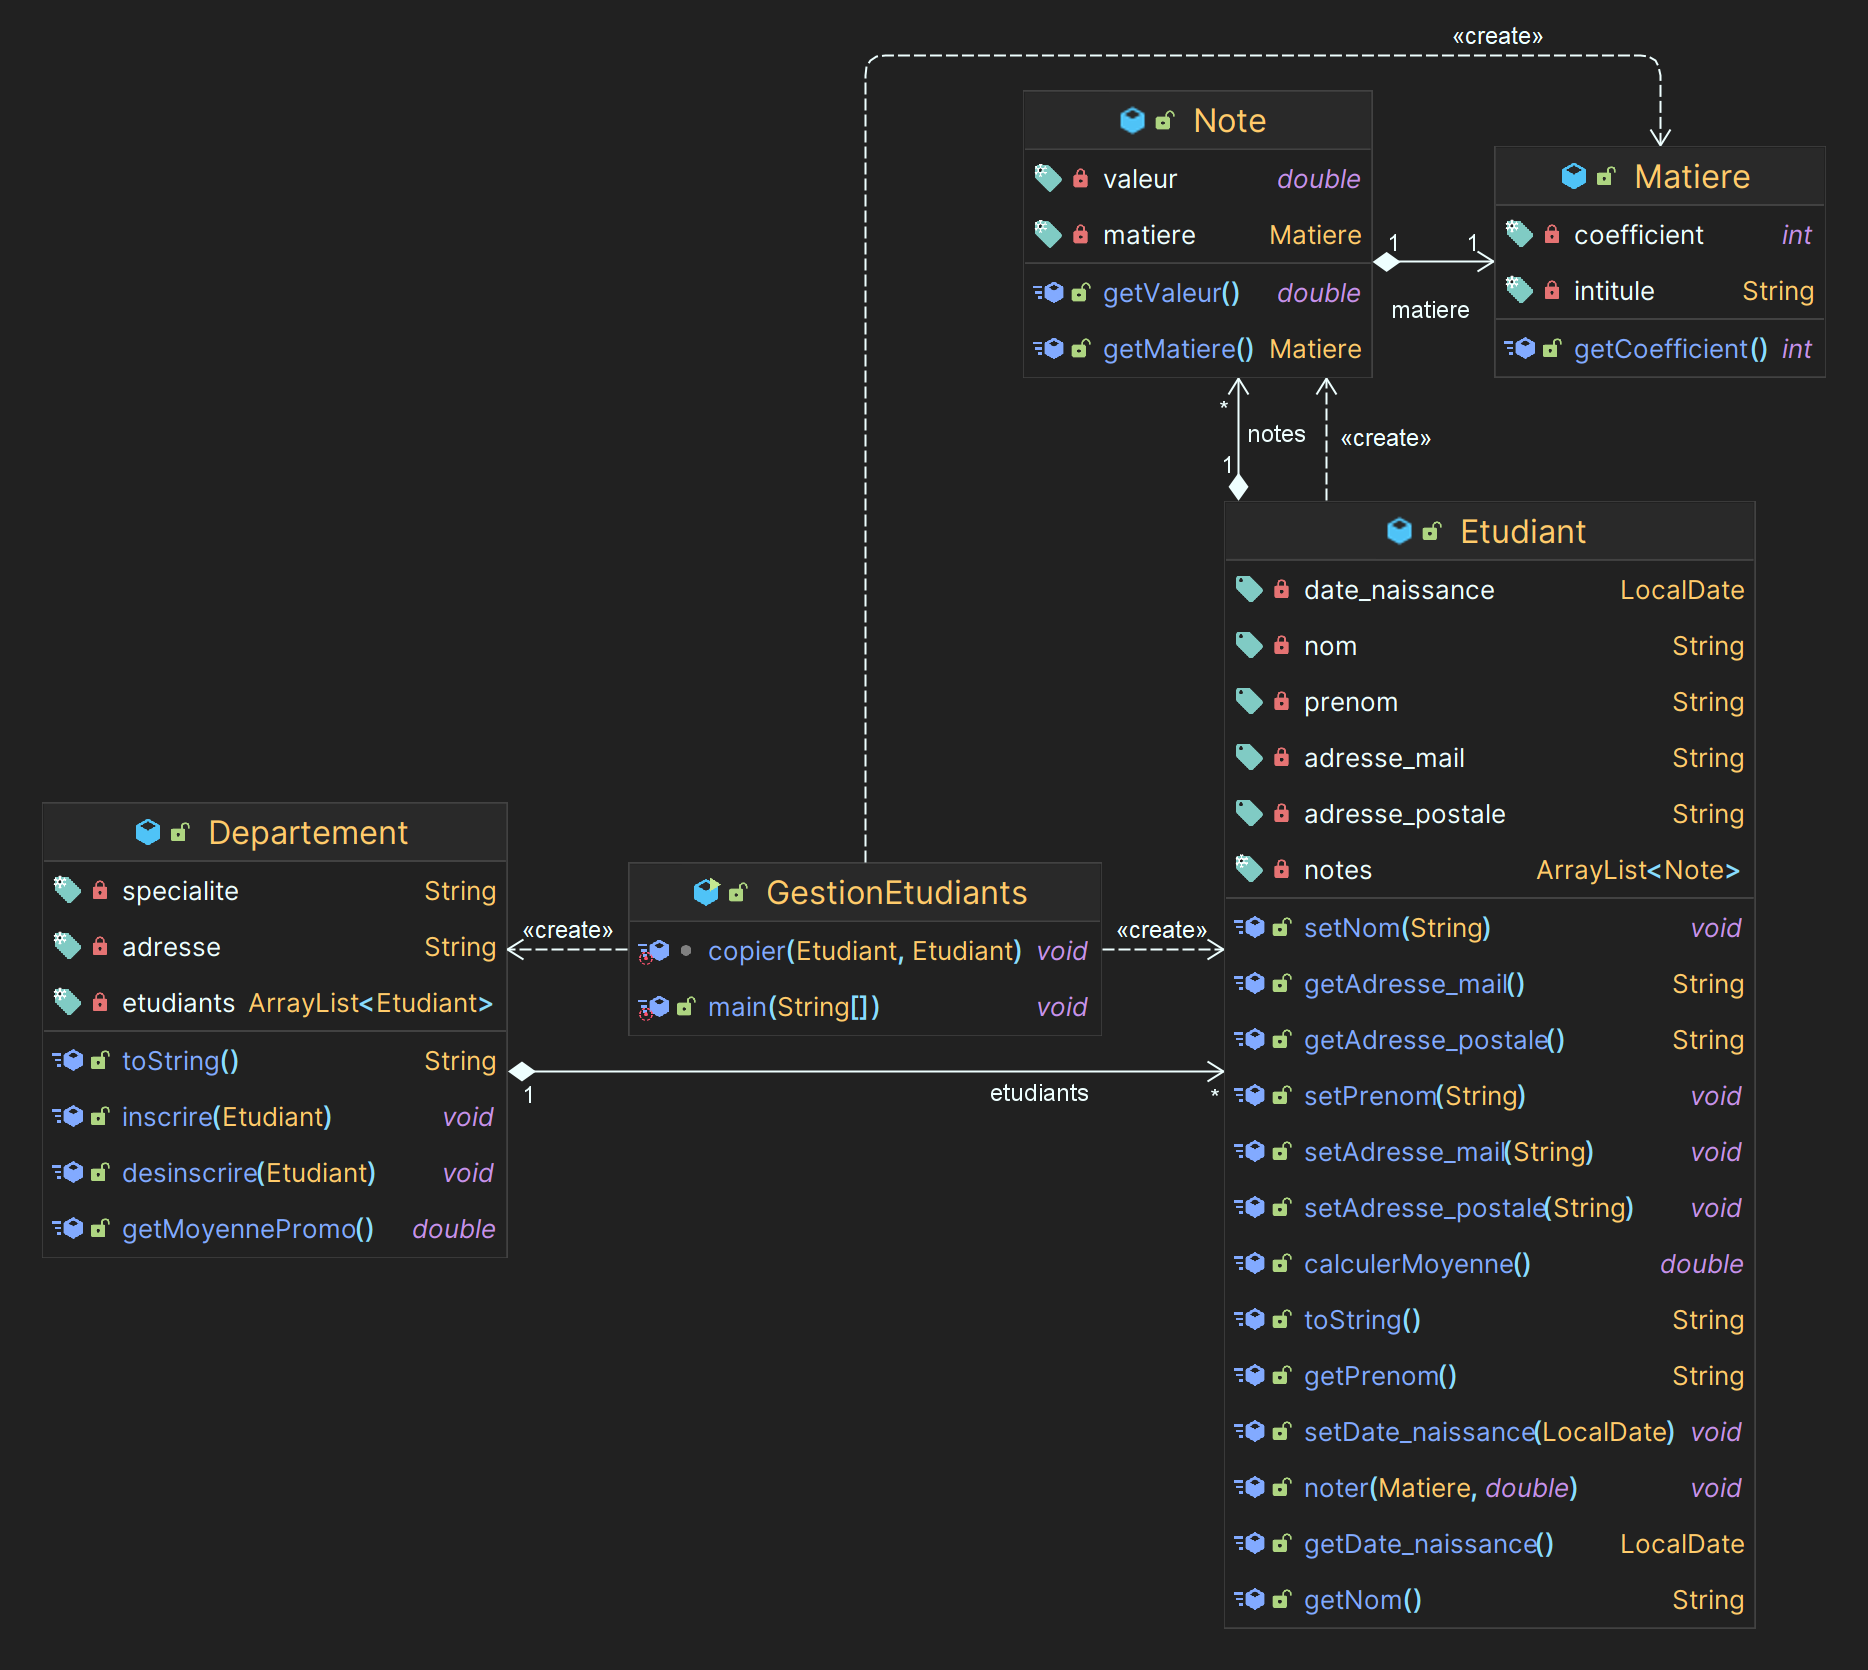
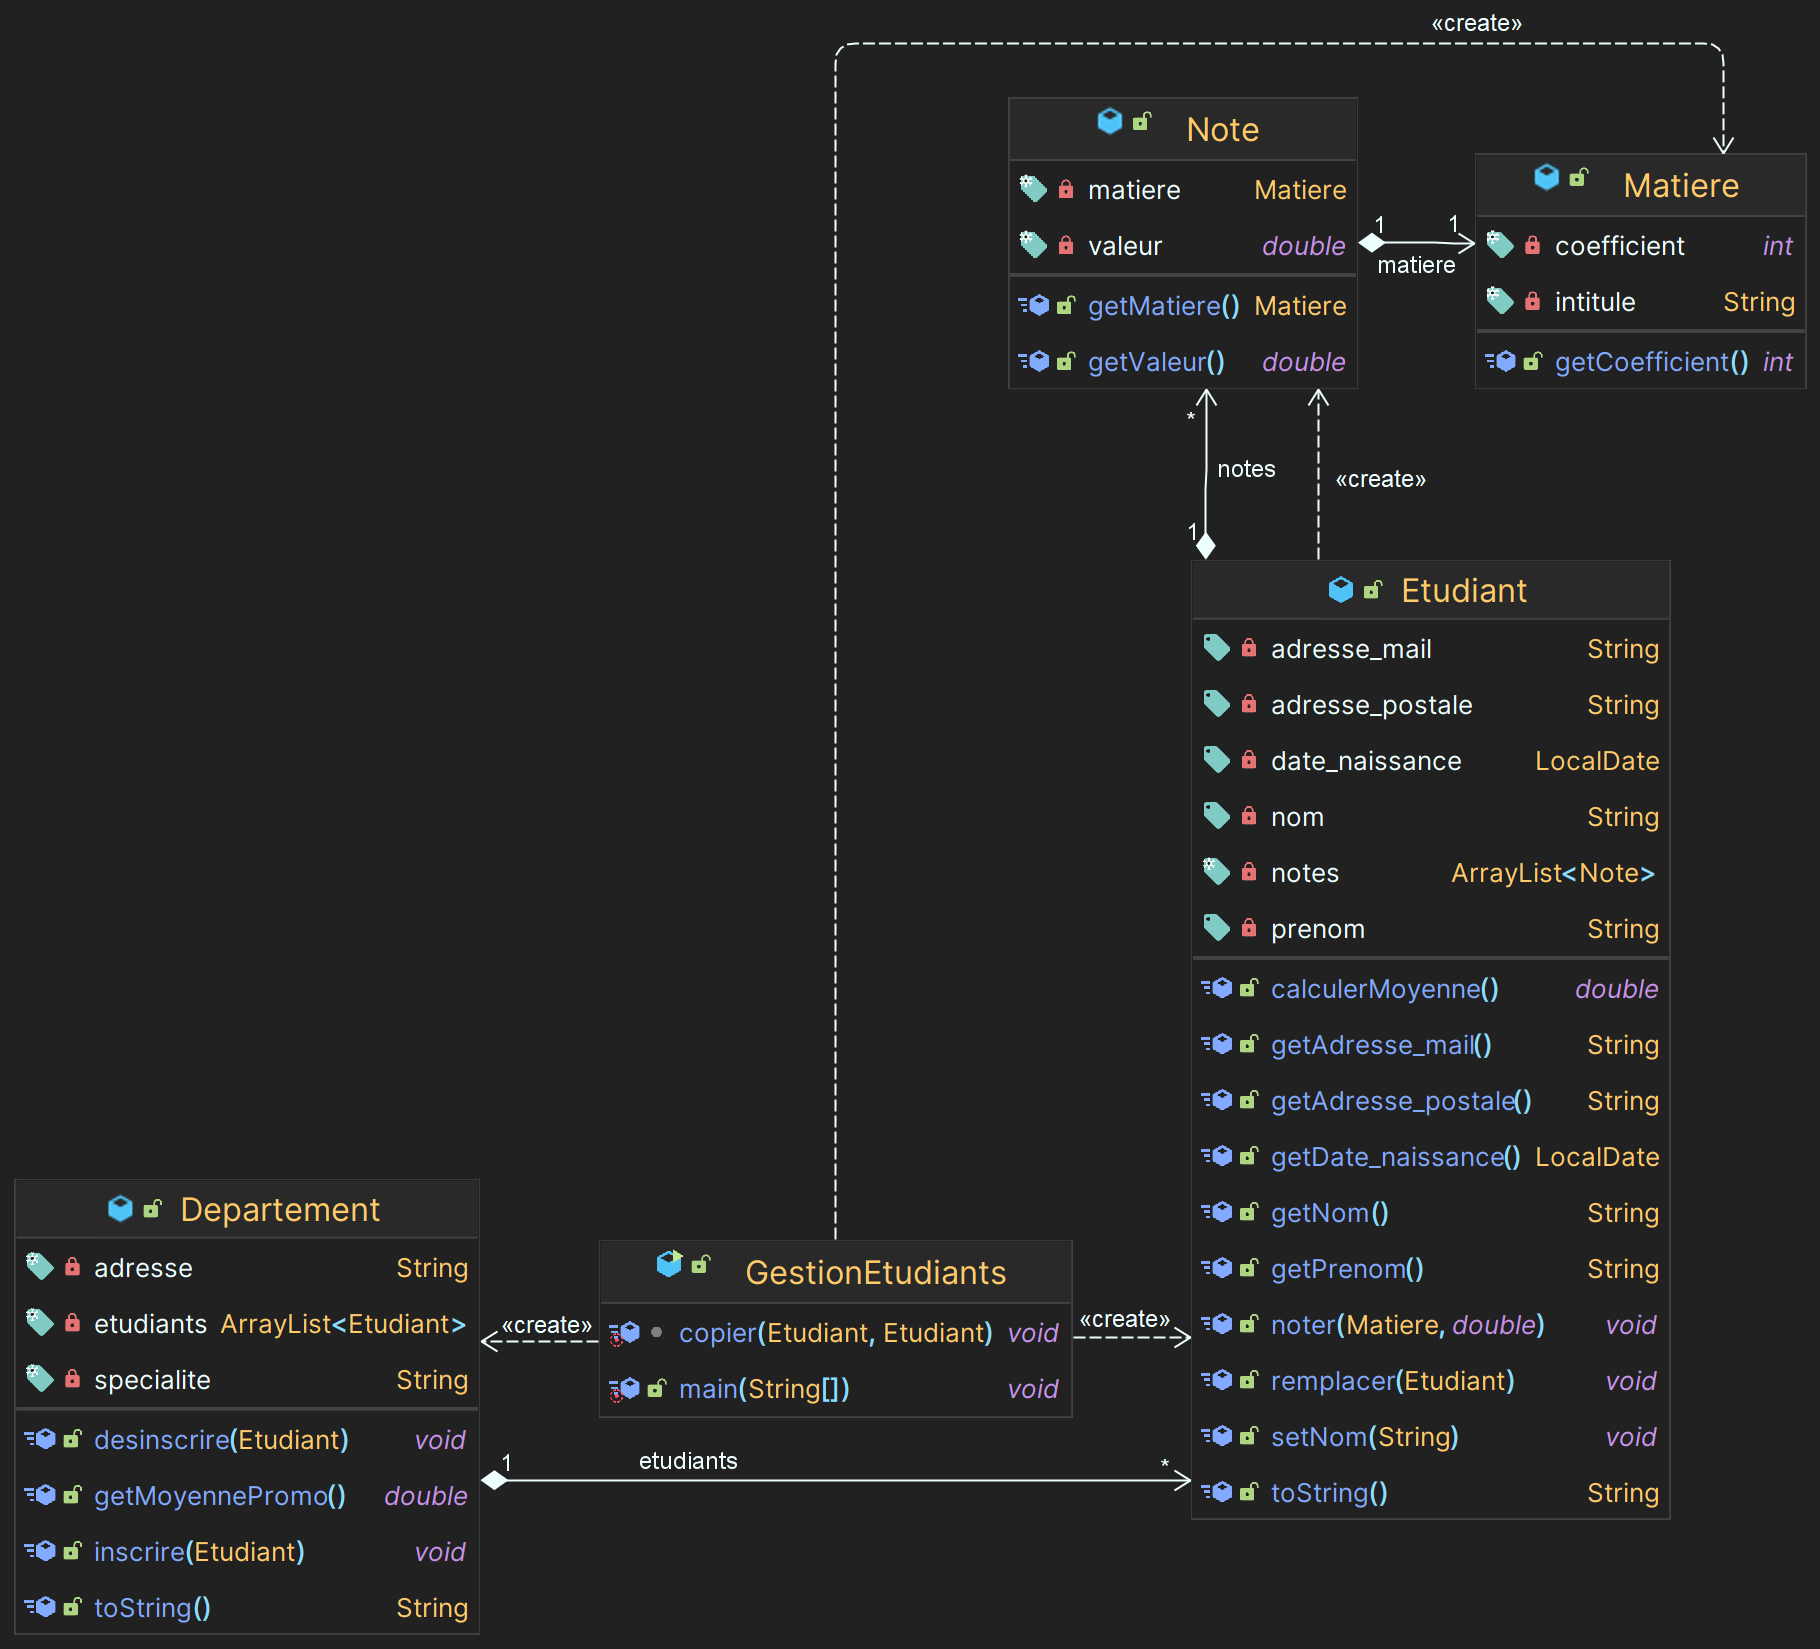
Exercice 5 - Implémentation de 'EtudiantBuilder' & MAJ du diagramme UML => Fin du TP

diff --git a/src/test/java/fr/umontpellier/iut/exo3/EtudiantJavaBeansTest.java b/src/test/java/fr/umontpellier/iut/exo3/EtudiantJavaBeansTest.java
@@ -24,9 +24,9 @@ class EtudiantJavaBeansTest {
         EtudiantJavaBeans lolo = new EtudiantJavaBeans();
         lolo.setNom("Moulin");
         lolo.setPrenom("Loran");
-        lolo.setDate_naissance(LocalDate.of(2005, Month.JULY, 17));
-        lolo.setAdresse_mail("loran.moulin@etu.umontpellier.fr");
-        lolo.setAdresse_postale("12 Rue du Moulin, 11440 Peyriac-de-Mer");
+        lolo.setDateNaissance(LocalDate.of(2005, Month.JULY, 17));
+        lolo.setAdresseMail("loran.moulin@etu.umontpellier.fr");
+        lolo.setAdressePostale("12 Rue du Moulin, 11440 Peyriac-de-Mer");
         assertEquals(lolo.toString(), "L'étudiant Moulin Loran (loran.moulin@etu.umontpellier.fr) né(e) le 17/07/2005 a comme adresse postale '12 Rue du Moulin, 11440 Peyriac-de-Mer', avec 0 enregistrée(s) et une moyenne de 0.0.");
     }
 
@@ -35,9 +35,9 @@ class EtudiantJavaBeansTest {
         EtudiantJavaBeans lolo = new EtudiantJavaBeans();
         lolo.setNom("Moulin");
         lolo.setPrenom("Loran");
-        lolo.setDate_naissance(LocalDate.of(2005, Month.JULY, 17));
-        lolo.setAdresse_mail("loran.moulin@etu.umontpellier.fr");
-        lolo.setAdresse_postale("12 Rue du Moulin, 11440 Peyriac-de-Mer");
+        lolo.setDateNaissance(LocalDate.of(2005, Month.JULY, 17));
+        lolo.setAdresseMail("loran.moulin@etu.umontpellier.fr");
+        lolo.setAdressePostale("12 Rue du Moulin, 11440 Peyriac-de-Mer");
         EtudiantJavaBeans toto = lolo;
         toto.setNom("Lupin");
         assertEquals(lolo.toString(), "L'étudiant Lupin Loran (loran.moulin@etu.umontpellier.fr) né(e) le 17/07/2005 a comme adresse postale '12 Rue du Moulin, 11440 Peyriac-de-Mer', avec 0 enregistrée(s) et une moyenne de 0.0.");
@@ -49,9 +49,9 @@ class EtudiantJavaBeansTest {
         EtudiantJavaBeans lolo = new EtudiantJavaBeans();
         lolo.setNom("Moulin");
         lolo.setPrenom("Loran");
-        lolo.setDate_naissance(LocalDate.of(2005, Month.JULY, 17));
-        lolo.setAdresse_mail("loran.moulin@etu.umontpellier.fr");
-        lolo.setAdresse_postale("12 Rue du Moulin, 11440 Peyriac-de-Mer");
+        lolo.setDateNaissance(LocalDate.of(2005, Month.JULY, 17));
+        lolo.setAdresseMail("loran.moulin@etu.umontpellier.fr");
+        lolo.setAdressePostale("12 Rue du Moulin, 11440 Peyriac-de-Mer");
         assertEquals(lolo.calculerMoyenne(), 0);
     }
 
@@ -60,9 +60,9 @@ class EtudiantJavaBeansTest {
         EtudiantJavaBeans lolo = new EtudiantJavaBeans();
         lolo.setNom("Moulin");
         lolo.setPrenom("Loran");
-        lolo.setDate_naissance(LocalDate.of(2005, Month.JULY, 17));
-        lolo.setAdresse_mail("loran.moulin@etu.umontpellier.fr");
-        lolo.setAdresse_postale("12 Rue du Moulin, 11440 Peyriac-de-Mer");
+        lolo.setDateNaissance(LocalDate.of(2005, Month.JULY, 17));
+        lolo.setAdresseMail("loran.moulin@etu.umontpellier.fr");
+        lolo.setAdressePostale("12 Rue du Moulin, 11440 Peyriac-de-Mer");
         Matiere math = new Matiere("Mathématiques", 1);
         lolo.noter(math, 16.0f);
         assertEquals(lolo.calculerMoyenne(), 16);
@@ -73,9 +73,9 @@ class EtudiantJavaBeansTest {
         EtudiantJavaBeans lolo = new EtudiantJavaBeans();
         lolo.setNom("Moulin");
         lolo.setPrenom("Loran");
-        lolo.setDate_naissance(LocalDate.of(2005, Month.JULY, 17));
-        lolo.setAdresse_mail("loran.moulin@etu.umontpellier.fr");
-        lolo.setAdresse_postale("12 Rue du Moulin, 11440 Peyriac-de-Mer");
+        lolo.setDateNaissance(LocalDate.of(2005, Month.JULY, 17));
+        lolo.setAdresseMail("loran.moulin@etu.umontpellier.fr");
+        lolo.setAdressePostale("12 Rue du Moulin, 11440 Peyriac-de-Mer");
         Matiere math = new Matiere("Mathématiques", 6);
         lolo.noter(math, 15.0f);
         assertEquals(lolo.calculerMoyenne(), 90.0 / 6);
@@ -86,9 +86,9 @@ class EtudiantJavaBeansTest {
         EtudiantJavaBeans lolo = new EtudiantJavaBeans();
         lolo.setNom("Moulin");
         lolo.setPrenom("Loran");
-        lolo.setDate_naissance(LocalDate.of(2005, Month.JULY, 17));
-        lolo.setAdresse_mail("loran.moulin@etu.umontpellier.fr");
-        lolo.setAdresse_postale("12 Rue du Moulin, 11440 Peyriac-de-Mer");
+        lolo.setDateNaissance(LocalDate.of(2005, Month.JULY, 17));
+        lolo.setAdresseMail("loran.moulin@etu.umontpellier.fr");
+        lolo.setAdressePostale("12 Rue du Moulin, 11440 Peyriac-de-Mer");
         Matiere math = new Matiere("Mathématiques", 6);
         Matiere eco = new Matiere("Economie", 3);
         Matiere anglais = new Matiere("Anglais", 2);

diff --git a/src/test/java/fr/umontpellier/iut/exo3/EtudiantTest.java b/src/test/java/fr/umontpellier/iut/exo3/EtudiantTest.java
@@ -1,0 +1,95 @@
+package fr.umontpellier.iut.exo3;
+
+import org.junit.jupiter.api.Test;
+
+import java.time.LocalDate;
+import java.time.Month;
+
+import static org.junit.jupiter.api.Assertions.*;
+
+class EtudiantTest {
+
+    @Test
+    public void test_classe_Etudiant_existe() {
+        try {
+            Class.forName("fr.umontpellier.iut.exo3.Etudiant");
+        } catch (ClassNotFoundException e) {
+            fail("pas de classe nommée Etudiant dans le paquetage");
+        }
+    }
+
+    @Test
+    public void test_classe_Etudiant_toString() {
+        Etudiant lolo = new Etudiant("Moulin", "Loran",
+                LocalDate.of(2005, Month.JULY, 17),
+                "loran.moulin@etu.umontpellier.fr", "12 Rue du Moulin, 11440 Peyriac-de-Mer");
+        assertEquals(lolo.toString(), "L'étudiant Moulin Loran (loran.moulin@etu.umontpellier.fr) né(e) le 17/07/2005 a comme adresse postale '12 Rue du Moulin, 11440 Peyriac-de-Mer', avec 0 enregistrée(s) et une moyenne de 0.0.");
+    }
+
+    @Test
+    public void test_classe_Etudiant_setNom() {
+        Etudiant lolo = new Etudiant("Moulin", "Loran",
+                LocalDate.of(2005, Month.JULY, 17),
+                "loran.moulin@etu.umontpellier.fr", "12 Rue du Moulin, 11440 Peyriac-de-Mer");
+        Etudiant toto = lolo;
+        toto.setNom("Lupin");
+        assertEquals(lolo.toString(), "L'étudiant Lupin Loran (loran.moulin@etu.umontpellier.fr) né(e) le 17/07/2005 a comme adresse postale '12 Rue du Moulin, 11440 Peyriac-de-Mer', avec 0 enregistrée(s) et une moyenne de 0.0.");
+        assertEquals(lolo, toto);
+    }
+
+    @Test
+    public void test_classe_Etudiant_remplacer() {
+        Etudiant lolo = new Etudiant("Moulin", "Loran",
+                LocalDate.of(2005, Month.JULY, 17),
+                "loran.moulin@etu.umontpellier.fr", "12 Rue du Moulin, 11440 Peyriac-de-Mer");
+        Etudiant jojo = new Etudiant("Pytes", "Robert",
+                LocalDate.of(2004, Month.AUGUST, 8),
+                "robert.pytes@etu.umontpellier.fr", "45 Avenue Carnot, 30100 Alès");
+        lolo.remplacer(jojo);
+        assertEquals(lolo.toString(), "L'étudiant Pytes Robert (robert.pytes@etu.umontpellier.fr) né(e) le 08/08/2004 a comme adresse postale '45 Avenue Carnot, 30100 Alès', avec 0 enregistrée(s) et une moyenne de 0.0.");
+        assertNotEquals(lolo, jojo);
+    }
+
+    @Test
+    public void test_calcul_retourne_zero_Quand_Pas_De_Note() {
+        Etudiant lolo = new Etudiant("Moulin", "Loran",
+                LocalDate.of(2005, Month.JULY, 17),
+                "loran.moulin@etu.umontpellier.fr", "12 Rue du Moulin, 11440 Peyriac-de-Mer");
+        assertEquals(lolo.calculerMoyenne(), 0);
+    }
+
+    @Test
+    public void test_calcul_moyenne_retourne_valeur_note_quand_une_seule_note_avec_coefficient_de_1() {
+        Etudiant lolo = new Etudiant("Moulin", "Loran",
+                LocalDate.of(2005, Month.JULY, 17),
+                "loran.moulin@etu.umontpellier.fr", "12 Rue du Moulin, 11440 Peyriac-de-Mer");
+        Matiere math = new Matiere("Mathématiques", 1);
+        lolo.noter(math, 16.0f);
+        assertEquals(lolo.calculerMoyenne(), 16);
+    }
+
+    @Test
+    public void test_calcul_moyenne_retourne_valeur_note_quand_une_seule_note_avec_coefficient_autre_que_1() {
+        Etudiant lolo = new Etudiant("Moulin", "Loran",
+                LocalDate.of(2005, Month.JULY, 17),
+                "loran.moulin@etu.umontpellier.fr", "12 Rue du Moulin, 11440 Peyriac-de-Mer");
+        Matiere math = new Matiere("Mathématiques", 6);
+        lolo.noter(math, 15.0f);
+        assertEquals(lolo.calculerMoyenne(), 90.0 / 6);
+    }
+
+    @Test
+    public void test_calcul_moyenne_retourne_moyenne_quand_plusieurs_notes_avec_differents_coefficients() {
+        Etudiant lolo = new Etudiant("Moulin", "Loran",
+                LocalDate.of(2005, Month.JULY, 17),
+                "loran.moulin@etu.umontpellier.fr", "12 Rue du Moulin, 11440 Peyriac-de-Mer");
+        Matiere math = new Matiere("Mathématiques", 6);
+        Matiere eco = new Matiere("Economie", 3);
+        Matiere anglais = new Matiere("Anglais", 2);
+
+        lolo.noter(math, 16.0f);
+        lolo.noter(eco, 14.0f);
+        lolo.noter(anglais, 13.0f);
+        assertEquals(lolo.calculerMoyenne(), 164.0f / 11, 10e-3);
+    }
+}

diff --git a/src/main/java/fr/umontpellier/iut/exo3/Etudiant.java b/src/main/java/fr/umontpellier/iut/exo3/Etudiant.java
@@ -1,16 +1,25 @@
 package fr.umontpellier.iut.exo3;
 
+
 import java.time.LocalDate;
 import java.time.format.DateTimeFormatter;
 import java.util.ArrayList;
 
-public class EtudiantJavaBeans {
+public class Etudiant {
     private String nom;
     private String prenom;
     private LocalDate date_naissance;
     private String adresse_mail;
     private String adresse_postale;
     private final ArrayList<Note> notes = new ArrayList<>();
+
+    public Etudiant(String nom, String prenom, LocalDate date_naissance, String adresse_mail, String adresse_postale) {
+        this.nom = nom;
+        this.prenom = prenom;
+        this.date_naissance = date_naissance;
+        this.adresse_mail = adresse_mail;
+        this.adresse_postale = adresse_postale;
+    }
 
     public String getNom() {
         return nom;
@@ -36,22 +45,6 @@ public class EtudiantJavaBeans {
         this.nom = nom;
     }
 
-    public void setPrenom(String prenom) {
-        this.prenom = prenom;
-    }
-
-    public void setDateNaissance(LocalDate date_naissance) {
-        this.date_naissance = date_naissance;
-    }
-
-    public void setAdresseMail(String adresse_mail) {
-        this.adresse_mail = adresse_mail;
-    }
-
-    public void setAdressePostale(String adresse_postale) {
-        this.adresse_postale = adresse_postale;
-    }
-
     public void noter(Matiere matiere, double valeur) {
         this.notes.add(new Note(matiere, valeur));
     }
@@ -64,6 +57,14 @@ public class EtudiantJavaBeans {
             coefficient += note.getMatiere().getCoefficient();
         }
         return coefficient != 0 ? somme / coefficient : 0;
+    }
+
+    public void remplacer(Etudiant etudiant) {
+        this.nom = etudiant.nom;
+        this.prenom = etudiant.prenom;
+        this.date_naissance = etudiant.date_naissance;
+        this.adresse_mail = etudiant.adresse_mail;
+        this.adresse_postale = etudiant.adresse_postale;
     }
 
     public String toString() {

diff --git a/src/test/java/fr/umontpellier/iut/exo3/EtudiantBuilderTest.java b/src/test/java/fr/umontpellier/iut/exo3/EtudiantBuilderTest.java
@@ -1,0 +1,32 @@
+package fr.umontpellier.iut.exo3;
+
+import org.junit.jupiter.api.Test;
+
+import java.time.LocalDate;
+import java.time.Month;
+
+import static org.junit.jupiter.api.Assertions.assertEquals;
+import static org.junit.jupiter.api.Assertions.fail;
+
+public class EtudiantBuilderTest {
+    @Test
+    public void test_classe_EtudiantBuilder_existe() {
+        try {
+            Class.forName("fr.umontpellier.iut.exo3.EtudiantBuilder");
+        } catch (ClassNotFoundException e) {
+            fail("pas de classe nommée EtudiantBuilder dans le paquetage");
+        }
+    }
+
+    @Test
+    public void test_etudiant_build() {
+        Etudiant etudiant = new EtudiantBuilder()
+                .ajouterNom("Dupont")
+                .ajouterPrenom("Philippe")
+                .ajouterDateNaissance(LocalDate.of(2003, Month.JANUARY, 28))
+                .ajouterMail("dupont@etu.umontpellier.fr")
+                .ajouterAdresse("99, Av. Occitanie, 34000 Montpellier")
+                .build();
+        assertEquals(etudiant.toString(), "L'étudiant Dupont Philippe (dupont@etu.umontpellier.fr) né(e) le 28/01/2003 a comme adresse postale '99, Av. Occitanie, 34000 Montpellier', avec 0 enregistrée(s) et une moyenne de 0.0.");
+    }
+}

diff --git a/src/main/java/fr/umontpellier/iut/exo3/EtudiantBuilder.java b/src/main/java/fr/umontpellier/iut/exo3/EtudiantBuilder.java
@@ -1,0 +1,40 @@
+package fr.umontpellier.iut.exo3;
+
+import java.time.LocalDate;
+
+public class EtudiantBuilder {
+    private String nom;
+    private String prenom;
+    private LocalDate date_naissance;
+    private String adresse_mail;
+    private String adresse_postale;
+
+    public EtudiantBuilder ajouterNom(String nom) {
+        this.nom = nom;
+        return this;
+    }
+
+    public EtudiantBuilder ajouterPrenom(String prenom) {
+        this.prenom = prenom;
+        return this;
+    }
+
+    public EtudiantBuilder ajouterDateNaissance(LocalDate date_naissance) {
+        this.date_naissance = date_naissance;
+        return this;
+    }
+
+    public EtudiantBuilder ajouterMail(String adresse_mail) {
+        this.adresse_mail = adresse_mail;
+        return this;
+    }
+
+    public EtudiantBuilder ajouterAdresse(String adresse_postale) {
+        this.adresse_postale = adresse_postale;
+        return this;
+    }
+
+    public Etudiant build() {
+        return new Etudiant(nom, prenom, date_naissance, adresse_mail, adresse_postale);
+    }
+}

diff --git a/src/main/java/fr/umontpellier/iut/exo3/GestionEtudiants.java b/src/main/java/fr/umontpellier/iut/exo3/GestionEtudiants.java
@@ -13,5 +13,22 @@ public class GestionEtudiants {
         EtudiantTelescopique jojo = new EtudiantTelescopique("Pytes", "Robert",
                 LocalDate.of(2004, Month.AUGUST, 8));
         System.out.println(jojo);
+
+        EtudiantJavaBeans riri = new EtudiantJavaBeans();
+        riri.setNom("Jotans");
+        riri.setPrenom("Richard");
+        riri.setDateNaissance(LocalDate.of(2008, Month.FEBRUARY, 26));
+        riri.setAdresseMail("richard.jotans@etu.umontpellier.fr");
+        riri.setAdressePostale("24 Rue du Languedoc, 11100 Narbonne");
+        System.out.println(riri);
+
+        Etudiant phili = new EtudiantBuilder()
+                .ajouterNom("Dupont")
+                .ajouterPrenom("Philippe")
+                .ajouterDateNaissance(LocalDate.of(2003, Month.JANUARY, 28))
+                .ajouterMail("dupont@etu.umontpellier.fr")
+                .ajouterAdresse("99, Av. Occitanie, 34000 Montpellier")
+                .build();
+        System.out.println(phili);
     }
 }

diff --git a/Reponses.md b/Reponses.md
@@ -1,6 +1,7 @@
-# Exercice 1
+# Réponses aux exercices du TP 3
 
-## Questions
+## Exercice 1
+### Questions
 1. ✅
 2. ✅
 3. ✅
@@ -13,9 +14,8 @@
 10. ✅
 11. Après la suppression de 'toto' dans l'arraylist, l'élément n'est plus présent dans la liste (mais est toujours présent dans la mémoire), l'ordre est conservé et la taille de la liste à été réduite de 1.
 
-# Exercice 2
-
-## Questions
+## Exercice 2
+### Questions
 1. ✅
 2. ✅
 3. ✅
@@ -26,10 +26,10 @@
 8. 
 ![Diagramme de classe](./ressources/exo2.png)
 
-# Exercice 3
-
-## Questions
+## Exercice 3
+### Questions
 1. ✅
 2. Oui, il est possible. Seulement, toutes les valeurs qui ne seront pas définies dans le constructeur seront null.
 3. ✅
 4. L'avantage majeur de cette solution est qu'on peut les valeurs que l'on souhaite, et on peut aussi les modifier à tout moment. L'inconvénient est que si on oublie de définir une valeur, elle sera null (comme dit précédemment dans la Q2).
+5. ✅
